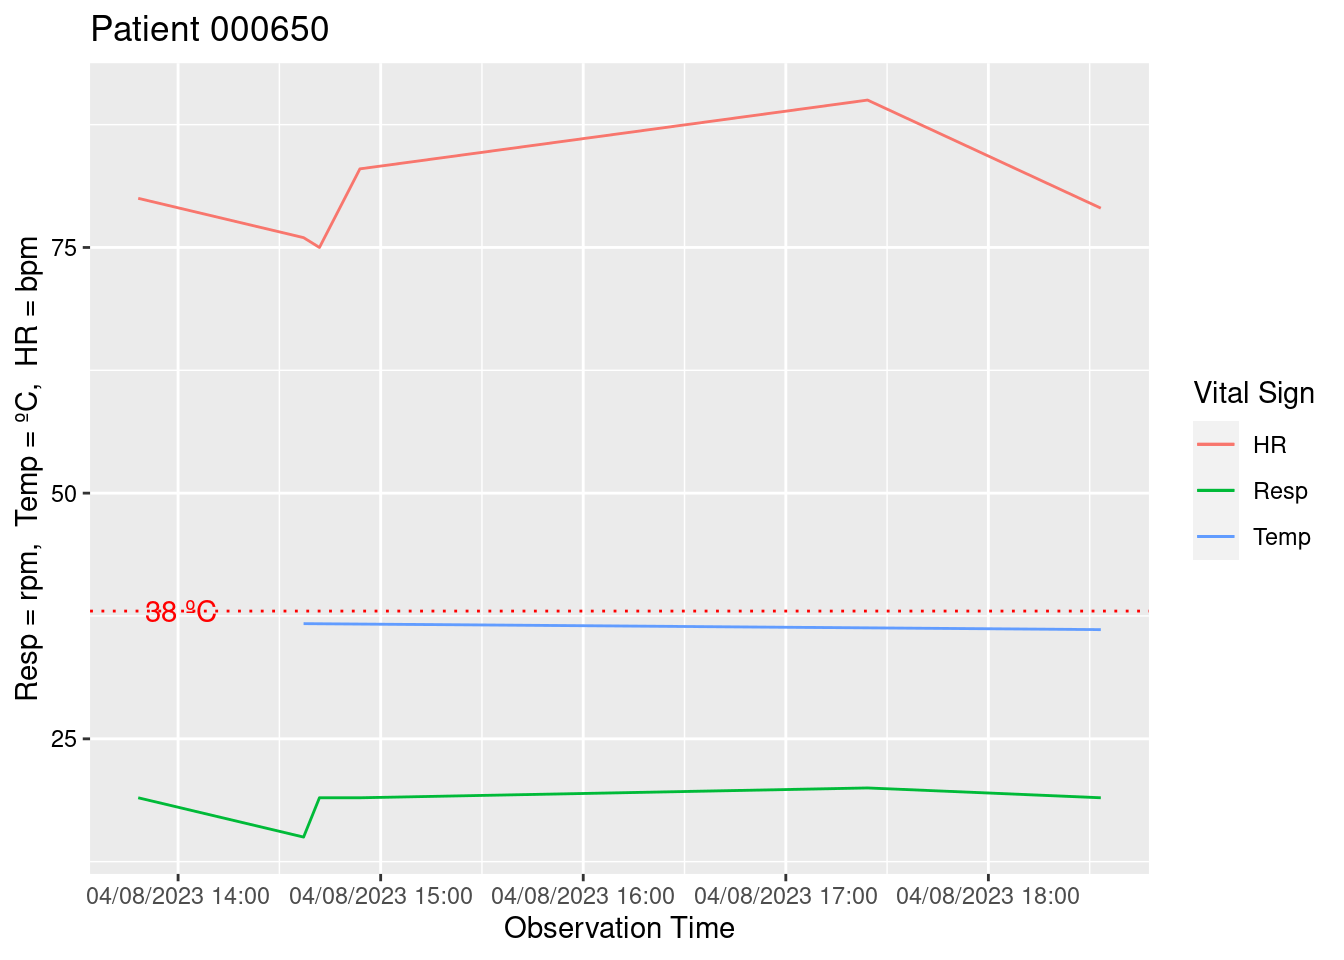
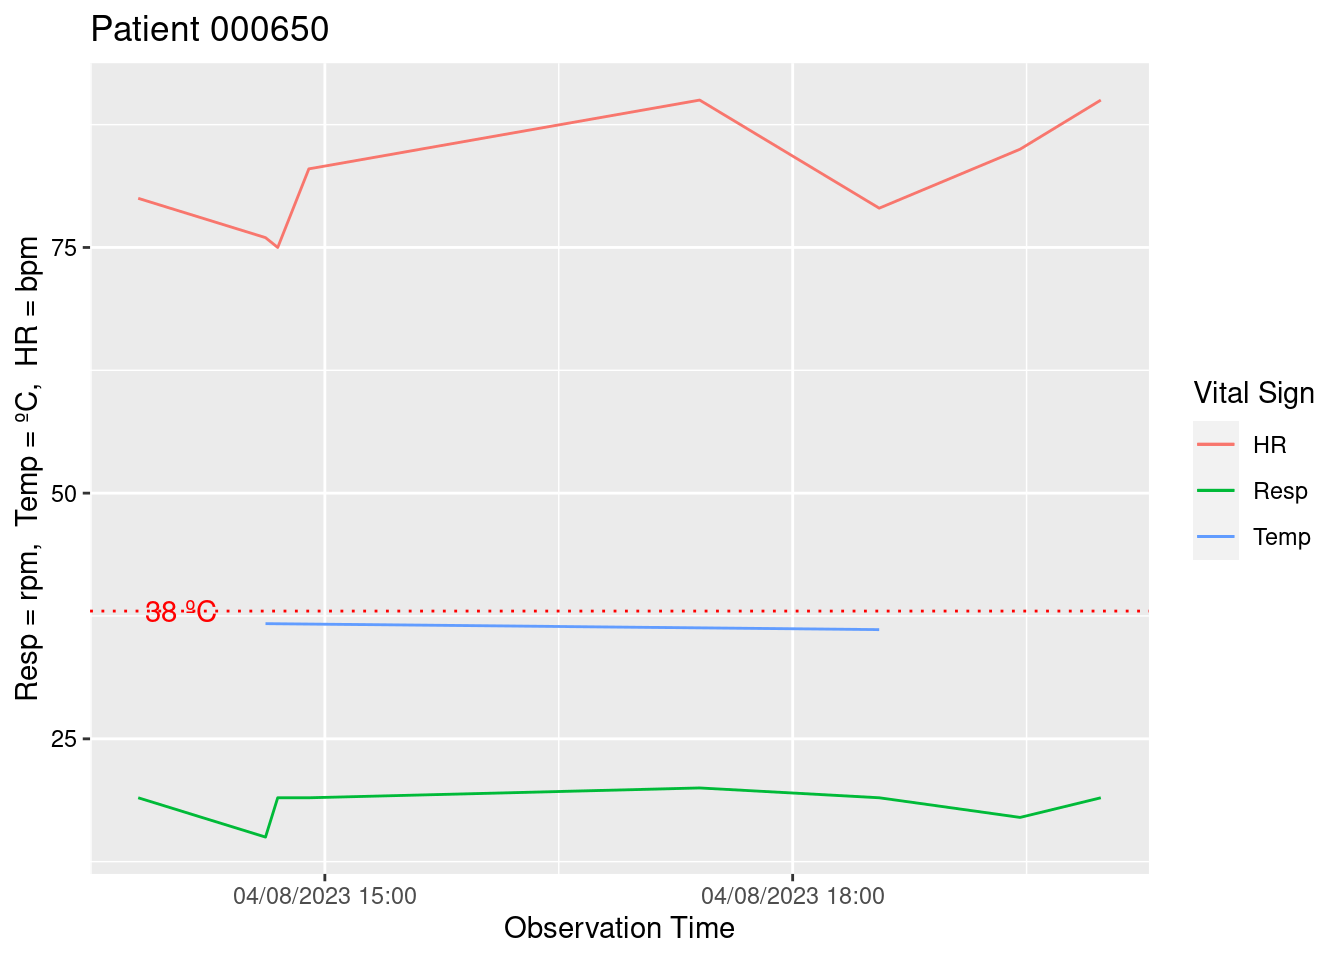
Updated report

diff --git a/Assignment-7.html b/Assignment-7.html
@@ -139,8 +139,8 @@ code span.wa { color: #60a0b0; font-weight: bold; font-style: italic; } /* Warni
 
 <section id="assignment-7" class="level1">
 <h1>Assignment 7</h1>
-<section id="date-and-time-2023-04-08-190923" class="level3">
-<h3 class="anchored" data-anchor-id="date-and-time-2023-04-08-190923">Date and Time: 2023-04-08 19:09:23</h3>
+<section id="date-and-time-2023-04-08-201116" class="level3">
+<h3 class="anchored" data-anchor-id="date-and-time-2023-04-08-201116">Date and Time: 2023-04-08 20:11:16</h3>
 <div class="cell">
 <div class="sourceCode cell-code" id="cb1"><pre class="sourceCode r code-with-copy"><code class="sourceCode r"><span id="cb1-1"><a href="#cb1-1" aria-hidden="true" tabindex="-1"></a><span class="fu">source</span>(<span class="st">"sepsis_monitor_functions.R"</span>)</span>
 <span id="cb1-2"><a href="#cb1-2" aria-hidden="true" tabindex="-1"></a></span>
@@ -185,8 +185,8 @@ code span.wa { color: #60a0b0; font-weight: bold; font-style: italic; } /* Warni
 <tbody>
 <tr class="odd">
 <td style="text-align: left;">000650</td>
-<td style="text-align: right;">79</td>
-<td style="text-align: right;">36.11</td>
+<td style="text-align: right;">90</td>
+<td style="text-align: right;">NA</td>
 <td style="text-align: right;">19</td>
 </tr>
 <tr class="even">
@@ -198,7 +198,7 @@ code span.wa { color: #60a0b0; font-weight: bold; font-style: italic; } /* Warni
 <tr class="odd">
 <td style="text-align: left;">003231</td>
 <td style="text-align: right;">98</td>
-<td style="text-align: right;">38.90</td>
+<td style="text-align: right;">38.9</td>
 <td style="text-align: right;">19</td>
 </tr>
 <tr class="even">
@@ -307,9 +307,9 @@ code span.wa { color: #60a0b0; font-weight: bold; font-style: italic; } /* Warni
 <tbody>
 <tr class="odd">
 <td style="text-align: left;">000650</td>
-<td style="text-align: right;">-11</td>
+<td style="text-align: right;">5</td>
 <td style="text-align: right;">NA</td>
-<td style="text-align: right;">-1</td>
+<td style="text-align: right;">2</td>
 </tr>
 <tr class="even">
 <td style="text-align: left;">001288</td>
